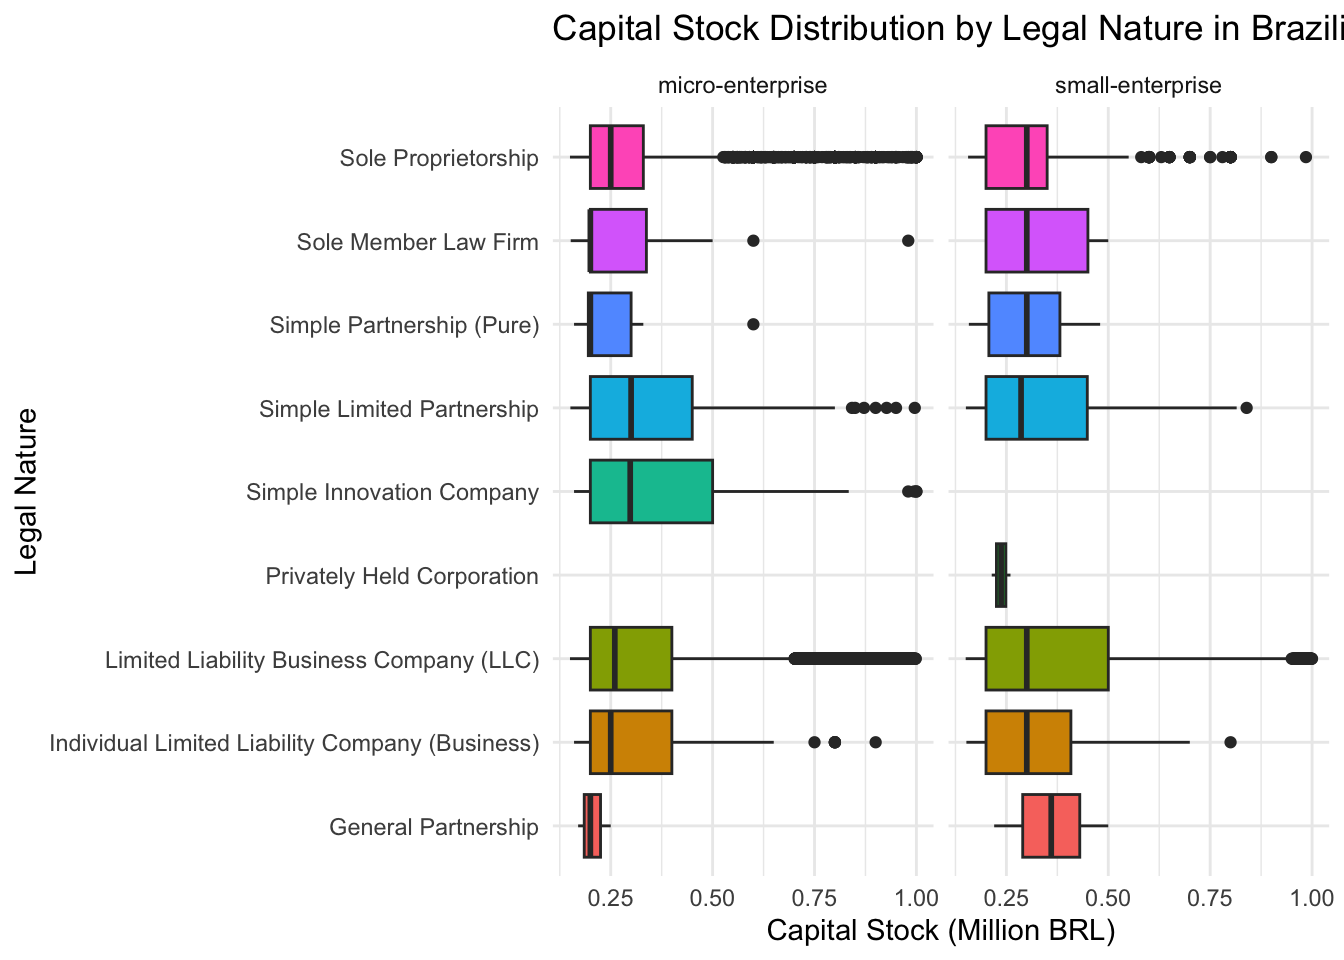
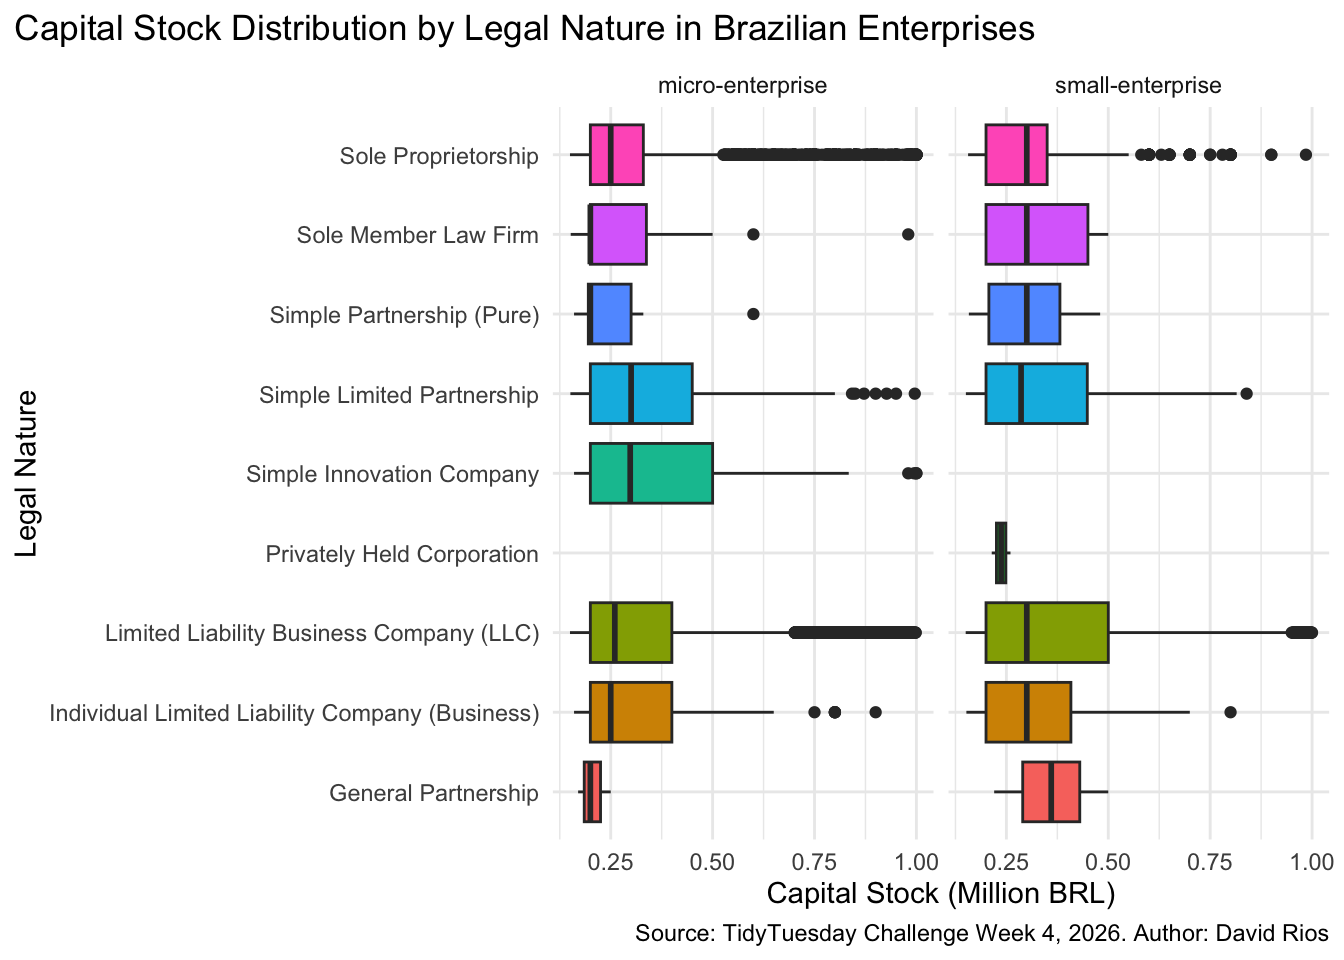
Built site for gh-pages

diff --git a/tt/Week_4.html b/tt/Week_4.html
@@ -590,7 +590,9 @@ $ company_size        &lt;chr&gt; "small-enterprise", "micro-enterprise", "small
 <span id="cb11-12"><a href="#cb11-12"></a>  <span class="fu">labs</span>(</span>
 <span id="cb11-13"><a href="#cb11-13"></a>    <span class="at">title =</span> <span class="st">"Capital Stock Distribution by Legal Nature in Brazilian Enterprises"</span>,</span>
 <span id="cb11-14"><a href="#cb11-14"></a>    <span class="at">x =</span> <span class="st">"Legal Nature"</span>,</span>
-<span id="cb11-15"><a href="#cb11-15"></a>    <span class="at">y =</span> <span class="st">"Capital Stock (Million BRL)"</span>)</span></code></pre></div><button title="Copy to Clipboard" class="code-copy-button"><i class="bi"></i></button></div>
+<span id="cb11-15"><a href="#cb11-15"></a>    <span class="at">y =</span> <span class="st">"Capital Stock (Million BRL)"</span>,</span>
+<span id="cb11-16"><a href="#cb11-16"></a>    <span class="at">caption =</span> <span class="st">"Source: TidyTuesday Challenge Week 4, 2026. Author: David Rios"</span>) <span class="sc">+</span></span>
+<span id="cb11-17"><a href="#cb11-17"></a>    <span class="fu">theme</span>(<span class="at">plot.title.position =</span> <span class="st">"plot"</span>)</span></code></pre></div><button title="Copy to Clipboard" class="code-copy-button"><i class="bi"></i></button></div>
 </details><div class="cell-output-display">
 <div class="quarto-figure quarto-figure-center">
 <figure class="figure"><p><img src="Week_4_files/figure-html/unnamed-chunk-4-1.png" class="img-fluid figure-img" alt="This is a figure that plots Boxplots of capital stock (in million BRL) by legal nature for micro- and small enterprises in Brazil." width="672"></p>
@@ -1197,26 +1199,28 @@ $ company_size        &lt;chr&gt; "small-enterprise", "micro-enterprise", "small
 <span id="cb12-113"><a href="#cb12-113"></a>  <span class="fu">labs</span>(</span>
 <span id="cb12-114"><a href="#cb12-114"></a>    <span class="at">title =</span> <span class="st">"Capital Stock Distribution by Legal Nature in Brazilian Enterprises"</span>,</span>
 <span id="cb12-115"><a href="#cb12-115"></a>    <span class="at">x =</span> <span class="st">"Legal Nature"</span>,</span>
-<span id="cb12-116"><a href="#cb12-116"></a>    <span class="at">y =</span> <span class="st">"Capital Stock (Million BRL)"</span>)</span>
-<span id="cb12-117"><a href="#cb12-117"></a><span class="in">```</span></span>
-<span id="cb12-118"><a href="#cb12-118"></a></span>
-<span id="cb12-119"><a href="#cb12-119"></a></span>
+<span id="cb12-116"><a href="#cb12-116"></a>    <span class="at">y =</span> <span class="st">"Capital Stock (Million BRL)"</span>,</span>
+<span id="cb12-117"><a href="#cb12-117"></a>    <span class="at">caption =</span> <span class="st">"Source: TidyTuesday Challenge Week 4, 2026. Author: David Rios"</span>) <span class="sc">+</span></span>
+<span id="cb12-118"><a href="#cb12-118"></a>    <span class="fu">theme</span>(<span class="at">plot.title.position =</span> <span class="st">"plot"</span>)</span>
+<span id="cb12-119"><a href="#cb12-119"></a><span class="in">```</span></span>
 <span id="cb12-120"><a href="#cb12-120"></a></span>
-<span id="cb12-121"><a href="#cb12-121"></a><span class="fu">## Conclusions</span></span>
+<span id="cb12-121"><a href="#cb12-121"></a></span>
 <span id="cb12-122"><a href="#cb12-122"></a></span>
-<span id="cb12-123"><a href="#cb12-123"></a>To understand how capital stock varies by legal nature among micro-enterprises, I first examined both mean and median capital stock values. Comparing these two measures helps assess the influence of remaining outliers and skewness in the data.</span>
+<span id="cb12-123"><a href="#cb12-123"></a><span class="fu">## Conclusions</span></span>
 <span id="cb12-124"><a href="#cb12-124"></a></span>
-<span id="cb12-125"><a href="#cb12-125"></a>Fig. 1 reveals the differences in how capital stock is distributed across legal forms for both micro- and small enterprises in Brazil. Even after restricting the study to firms with less than 1 million BRL in capital, given the amount of outliers, the spread and tendency of capital stock vary a lot by legal nature. Note that this study assumes that both micro- and small-enterprises reports their capital stock consciously.</span>
+<span id="cb12-125"><a href="#cb12-125"></a>To understand how capital stock varies by legal nature among micro-enterprises, I first examined both mean and median capital stock values. Comparing these two measures helps assess the influence of remaining outliers and skewness in the data.</span>
 <span id="cb12-126"><a href="#cb12-126"></a></span>
-<span id="cb12-127"><a href="#cb12-127"></a>For micro-enterprises, most legal forms are located at low levels of declared capital. But there some enterprises that contradicts this. For example, Limited Liability Business Companies (LLCs) and Individual Limited Liability Companies display wider spreads and more outliers, suggesting that these structures are associated with firms that declare more capital even within the smallest size category. This would be an interesting study to pursue further with more time.</span>
+<span id="cb12-127"><a href="#cb12-127"></a>Fig. 1 reveals the differences in how capital stock is distributed across legal forms for both micro- and small enterprises in Brazil. Even after restricting the study to firms with less than 1 million BRL in capital, given the amount of outliers, the spread and tendency of capital stock vary a lot by legal nature. Note that this study assumes that both micro- and small-enterprises reports their capital stock consciously.</span>
 <span id="cb12-128"><a href="#cb12-128"></a></span>
-<span id="cb12-129"><a href="#cb12-129"></a>Among small enterprises, these differences become more obvious. Legal forms such as LLCs and Simple Limited Partnerships have higher medians and greater variability, while simpler structures remain concentrated at lower capital levels. This pattern indicates that whenever enterprises grow, the choice of legal nature becomes more strongly associated with how much capital they report.</span>
+<span id="cb12-129"><a href="#cb12-129"></a>For micro-enterprises, most legal forms are located at low levels of declared capital. But there some enterprises that contradicts this. For example, Limited Liability Business Companies (LLCs) and Individual Limited Liability Companies display wider spreads and more outliers, suggesting that these structures are associated with firms that declare more capital even within the smallest size category. This would be an interesting study to pursue further with more time.</span>
 <span id="cb12-130"><a href="#cb12-130"></a></span>
-<span id="cb12-131"><a href="#cb12-131"></a>One challenge I had during this project was dealing with outliers. I decided to limit the study to those firms with less than 1 million BRL in capital, but I do recognize this is not the best way to go about it. Future studies should look at it from a proportion perspectives comparing to their median value in each legal category. Another possibility could be using a logarithmic transformation to emphasize proportional differences rather than absolute values on the capital stock variable.</span>
+<span id="cb12-131"><a href="#cb12-131"></a>Among small enterprises, these differences become more obvious. Legal forms such as LLCs and Simple Limited Partnerships have higher medians and greater variability, while simpler structures remain concentrated at lower capital levels. This pattern indicates that whenever enterprises grow, the choice of legal nature becomes more strongly associated with how much capital they report.</span>
 <span id="cb12-132"><a href="#cb12-132"></a></span>
-<span id="cb12-133"><a href="#cb12-133"></a>Overall, our last visualization shows that legal nature is not just a formal label but carries information about the financial structure and scale of Brazilian enterprises. Even within the micro- and small-enterprise categories, organizational form is closely related to how much capital a firm declares. </span>
+<span id="cb12-133"><a href="#cb12-133"></a>One challenge I had during this project was dealing with outliers. I decided to limit the study to those firms with less than 1 million BRL in capital, but I do recognize this is not the best way to go about it. Future studies should look at it from a proportion perspectives comparing to their median value in each legal category. Another possibility could be using a logarithmic transformation to emphasize proportional differences rather than absolute values on the capital stock variable.</span>
 <span id="cb12-134"><a href="#cb12-134"></a></span>
-<span id="cb12-135"><a href="#cb12-135"></a></span>
+<span id="cb12-135"><a href="#cb12-135"></a>Overall, our last visualization shows that legal nature is not just a formal label but carries information about the financial structure and scale of Brazilian enterprises. Even within the micro- and small-enterprise categories, organizational form is closely related to how much capital a firm declares. </span>
+<span id="cb12-136"><a href="#cb12-136"></a></span>
+<span id="cb12-137"><a href="#cb12-137"></a></span>
 </code></pre></div><button title="Copy to Clipboard" class="code-copy-button" data-in-quarto-modal=""><i class="bi"></i></button></div>
 </div></div></div></div></div>
 </div> <!-- /content -->

diff --git a/index.html b/index.html
@@ -450,7 +450,7 @@ cookieconsent.run({
     <div>
     <div class="quarto-title-meta-heading">Published</div>
     <div class="quarto-title-meta-contents">
-      <p class="date">Sunday, February 1, 2026</p>
+      <p class="date">Monday, February 2, 2026</p>
     </div>
   </div>
   
@@ -462,8 +462,8 @@ cookieconsent.run({
 </header><p>Welcome to my online portfolio for COMP/STAT112 course taken at <a href="https://www.macalester.edu/">Macalester College</a>. Please, use the side bar on the left for navigation.</p>
 <div class="cell">
 <div class="cell-output-display">
-<div class="wordcloud2 html-widget html-fill-item" id="htmlwidget-517f1214c0cfa9c4aae4" style="width:100%;height:464px;"></div>
-<script type="application/json" data-for="htmlwidget-517f1214c0cfa9c4aae4">{"x":{"word":["welcome","to","comp","stat","212","mac","st paul"],"freq":[10,2,8,8,8,6,6],"fontFamily":"Segoe UI","fontWeight":"bold","color":"random-dark","minSize":0,"weightFactor":18,"backgroundColor":"white","gridSize":0,"minRotation":-0.7853981633974483,"maxRotation":0.7853981633974483,"shuffle":true,"rotateRatio":0.4,"shape":"cardioid","ellipticity":0.65,"figBase64":null,"hover":null},"evals":[],"jsHooks":{"render":[{"code":"function(el,x){\n                        console.log(123);\n                        if(!iii){\n                          window.location.reload();\n                          iii = False;\n\n                        }\n  }","data":null}]}}</script>
+<div class="wordcloud2 html-widget html-fill-item" id="htmlwidget-5b522e908f619dcff007" style="width:100%;height:464px;"></div>
+<script type="application/json" data-for="htmlwidget-5b522e908f619dcff007">{"x":{"word":["welcome","to","comp","stat","212","mac","st paul"],"freq":[10,2,8,8,8,6,6],"fontFamily":"Segoe UI","fontWeight":"bold","color":"random-dark","minSize":0,"weightFactor":18,"backgroundColor":"white","gridSize":0,"minRotation":-0.7853981633974483,"maxRotation":0.7853981633974483,"shuffle":true,"rotateRatio":0.4,"shape":"cardioid","ellipticity":0.65,"figBase64":null,"hover":null},"evals":[],"jsHooks":{"render":[{"code":"function(el,x){\n                        console.log(123);\n                        if(!iii){\n                          window.location.reload();\n                          iii = False;\n\n                        }\n  }","data":null}]}}</script>
 </div>
 </div>
 

diff --git a/404.html b/404.html
@@ -7,7 +7,7 @@
 <meta name="viewport" content="width=device-width, initial-scale=1.0, user-scalable=yes">
 
 
-<title>quarto-inputea562feaae59187 – COMP/STAT212 Portfolio</title>
+<title>quarto-inputf7316707ec531725 – COMP/STAT212 Portfolio</title>
 <style>
 code{white-space: pre-wrap;}
 span.smallcaps{font-variant: small-caps;}
